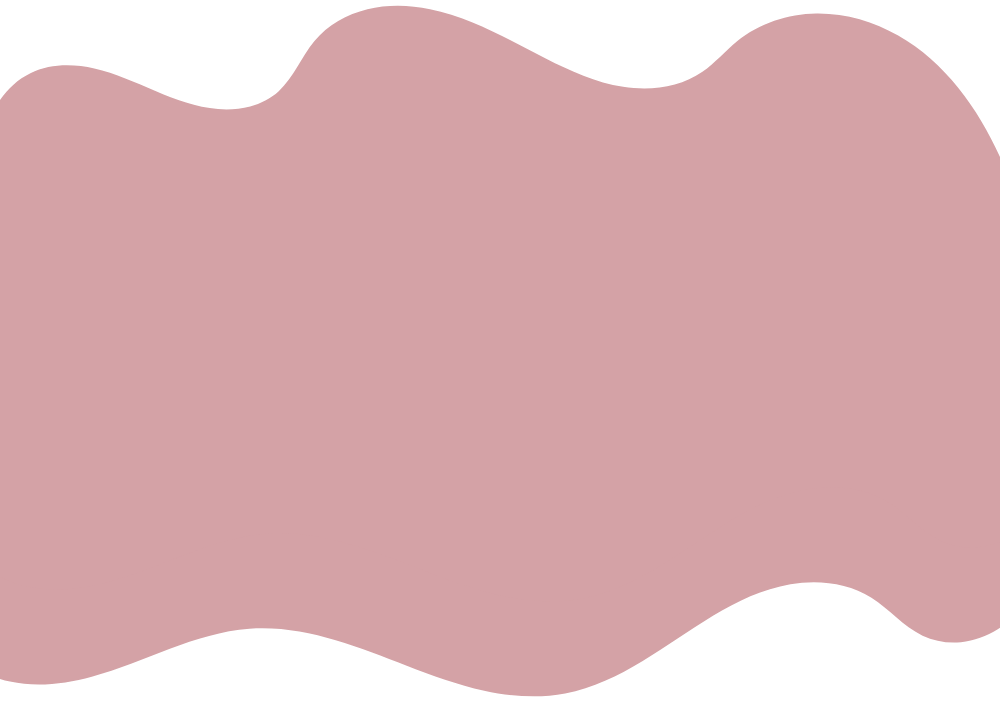
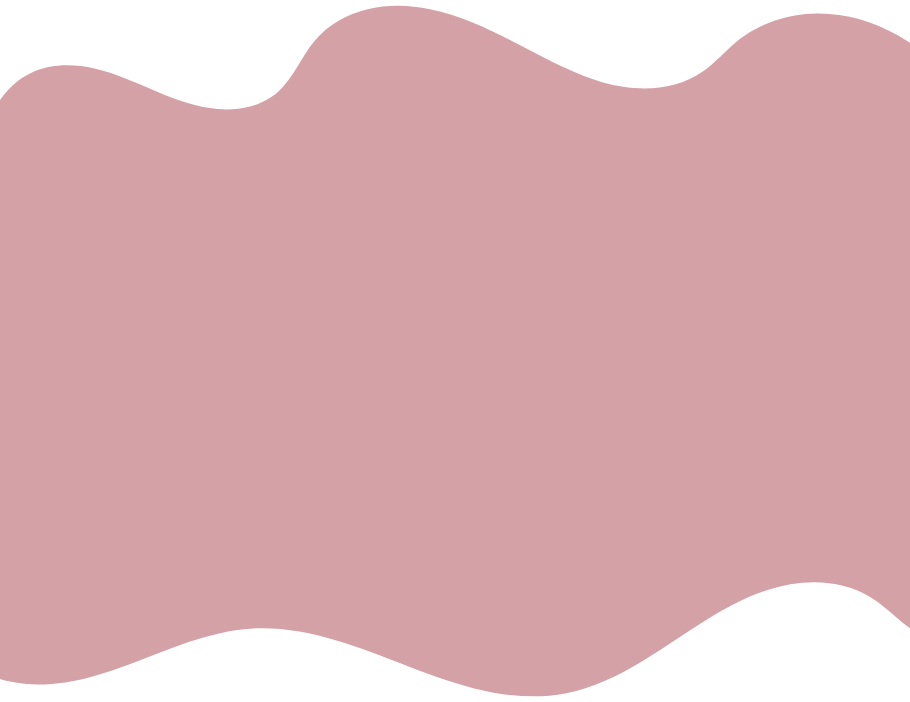
finished about me section

diff --git a/style.css b/style.css
@@ -29,7 +29,8 @@ body {
     /* took from a parallex video! C: */
     perspective: 1px;
     transform-style: preserve-3d;
-    overflow-y: scroll;
+    overflow-y: auto;
+    background-image: url("assets/background-img.png");
 }
 
 nav {
@@ -115,10 +116,11 @@ nav img {
     font-style: bold;
     text-align: center;
     position: absolute;
-    top: 28%;
+    top: 33%;
     left: 26%;
     color: whitesmoke;
     text-shadow: 2px 2px 4px black;
+    font-style: italic;
 
 }
 
@@ -128,13 +130,12 @@ nav img {
     height: auto;
     position: absolute;
     display: block;
-    top: 30%;
+    top: 15%;
     transform: translate(0%, 40%);
 }
 
 h2 {
     font-family: 'recoleta','Times New Roman', Times, serif;
-    font-style: italic;
 }
 
 html {
@@ -142,9 +143,76 @@ html {
 
 }
 
-.about-me, .intro {
-    overflow-y: scroll;
+
+
+.intro {
+    transform: translateZ(-1000px);
 }
+
+.about-me-box {
+    display: flex;
+}
+
+.about-me-box img {
+    max-width: 30vw;
+    top: 45%;
+    left: 10%;
+}
+
+
+.about-me-text{
+    display: flex;
+    flex-direction: column;
+    position: relative;
+    width: 55vw;
+    left: 43%;
+    color: whitesmoke;
+    transform: translate(0%, -30%);
+}
+
+.about-me-text h2{
+    font-family: 'cooper','Times New Roman', Times, serif;
+    font-style: none;
+    color: whitesmoke;
+    text-shadow: 1px 1px 4px black;
+    margin: 0;
+    padding: 0;
+}
+
+.about-me-title {
+    font-size: 5rem;
+    text-decoration: underline;
+    text-decoration-thickness: 6px;
+    margin-bottom: 30px;
+    font-style: italic;
+}
+
+.about-me-body {
+    font-size: 2rem;
+}
+
+.socials {
+    color: var(--primary-color);
+    text-shadow: 1px 1px 2px black;
+    transform: translate(0,-125%);
+    text-align: center;
+    font-style: italic;
+    font-size: 2.5rem;
+    width: 100vw;
+
+}
+
+.about-me-box img:hover{
+    scale: 1.025;
+    transition: 100ms ease;
+}
+
+.about-me-box img:not(:hover) {
+    scale: 1;
+    transition: 100ms ease;
+}
+
+
 
 /*.about-me, .intro {
     width: 100%;

diff --git a/index.html b/index.html
@@ -19,20 +19,36 @@
                 <h2>my sims photo dump</h2>
             </div>
         </div>
+
+    </header>
     </div>
 
-
+    <div class="photo-dump">
     <div class="about-me">
         <img src="assets/background-aboutme.png">
-        <div class="text">
-            <h1> normal </h1>
+        <div class="about-me-box">
+            <img src="assets/sim-pfp.png">
+            <div class="about-me-text">
+                <div class="about-me-title">
+                    <h2> hey! im zoe </h2>
+                </div>
+                <div class="about-me-body">
+                    <h2>im addicted to the sims.. its pretty bad. i have currently logged 1,997 hours and counting on the game. i love storytelling through my many screenshots</h2>
+                </div>
+            </div>
+        </div>
+        <div class="socials">
+            <h2>gallery id: zoethenerd • simstree: joey </h2>
         </div>
     </div>
 
     <h1>hi</h1>
     <h2>hello </h2>
 
-</header>
+
+    </div>
+
+
 </body>
 </html>
 